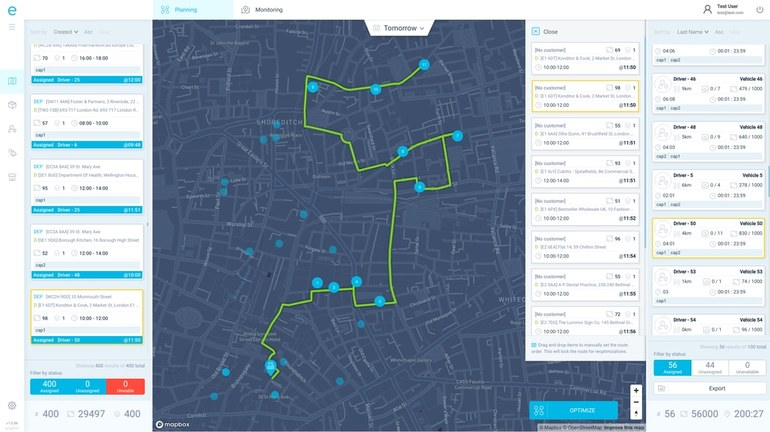
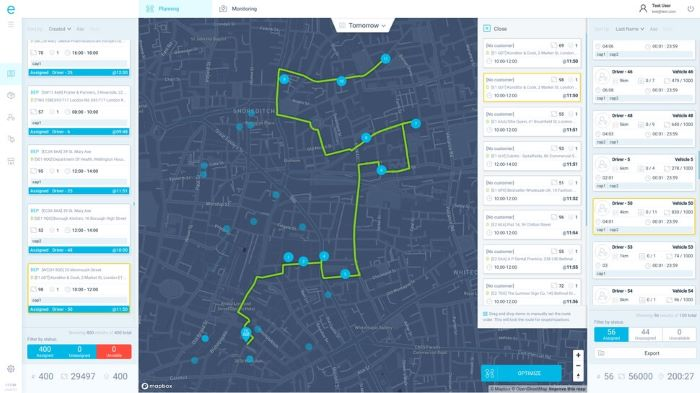
Update from Forestry.io Elogii Blog created static/uploads/route-optimization.jpg Elogii Blog updated content/how-to-give-your-customers-the-most-accurate-delivery-windows.md

Changed region(s): [[0.81, 0.8855, 0.84, 0.9771], [0.48, 0.0611, 0.54, 0.0916], [0.21, 0.9771, 0.24, 1.0]]

diff --git a/content/how-to-give-your-customers-the-most-accurate-delivery-windows.md b/content/how-to-give-your-customers-the-most-accurate-delivery-windows.md
@@ -3,7 +3,6 @@ canonical = "https://elogii.com/blog/delivery-window/"
 categories = ["Delivery Management"]
 date = 2023-01-12T11:00:00Z
 description = "Delivery windows tell your customers when to expect their orders. Setting an accurate delivery time window is an excellent way to build trust with customers. "
-draft = true
 image = "/blog/uploads/how-to-give-your-customers-the-most-accurate-delivery-windows.png"
 tags = ["Route Optimization Software", "Order Fulfillment", "Last Mile Delivery", "Driver Management", "  Dispatching", "Delivery Schedules", "Delivery Planning", "  Delivery Logistics", "Delivery Management Platform", "Delivery Management Software"]
 title = "How To Give Your Customers The Most Accurate Delivery Windows"
@@ -24,13 +23,9 @@ Here's a quick summary of everything we’ll cover:
 ## TL;DR
 
 * A **delivery window is a date and/or time set by the retailer or customer** **that marks when a package is expected to arrive**. Accurate delivery windows with a tracking number give customers an idea of when to expect their orders.
-
 * Delivery windows help retailers stay accountable and send out packages on time.
-
 * Accurate delivery windows have many benefits ranging from **improving the customer experience** and **building brand trust** to **helping fleet drivers plan their time more efficiently**.
-
 * Some of the best ways to create an accurate delivery window are to **use delivery management software**, **offer real-time delivery tracking**, **automate route planning**, and **maintain a line of communication with customers**.
-
 * To manage your delivery fleet and offer accurate delivery time windows to your customers, you need an accurate ETA management software like eLogii. **eLogii offers real-time tracking, route optimization, automated logistics, and many other features that all work together to ensure your customers get their orders on time.** To learn more about eLogii, [book a demo](https://elogii.com/book-demo).
 
 ## What is a delivery window?
@@ -95,31 +90,24 @@ Your Estimated Time of Arrival (ETA) is when your customers expect their deliver
 
 Many companies use ETA software like eLogii to help them securely manage their deliveries through route optimization, real-time tracking, and automated logistics.
 
-#### **eLogii review**
+#### eLogii review
 
-![](https://lh5.googleusercontent.com/CCHm5UCQJ6hB2kxR5C42oaYSC4CENi5qp22jCErntzBaWAmptZFE3JFeqJ2rhZ6Lmy9IWpW2VpkkJ6jPKUU2bDUXq4aOjtngX9oXjQ9fEaeBToS79YDq8_bTb687QjNZWZxToVT64K-jHnQtjH4ZHz8 =624x236)
+![eLogii](/blog/uploads/elogii.png "eLogii")
 
 eLogii is a cloud-based delivery management platform that helps businesses route and plan their deliveries. It aims to make delivery operations as efficient as possible to ensure 100% customer satisfaction.
 
 **Features:**
 
 * **Routing and planning** – This includes live traffic routing, automated route optimization, and multi-day routing.
-
 * **Operations management** – This includes user management, live task statuses, voice communication, fast customer service times, the ability to prioritize customer service inquiries, and the ability to track the duration of deliveries.
-
 * [**Electronic Proof of Deliveries** **(ePODs)**](https://elogii.com/capabilities/digital-pod) – This includes photos, signatures, barcodes, QR codes, and cash on delivery confirmations.
-
 * **A seamless customer experience** – This includes live ETAs and tracking, customer profiles, email and SMS notifications, and delivery notifications that are printable.
-
 * **A driver/agent app** – This includes iOS and Android apps that show the status of drivers, offer multi-language support, allow for vehicle selection, display a task list with a map view, offer push notifications, and connect with Google maps.
-
 * **Driver/vehicle configuration** – eLogii allows users to customize drivers’ skills, drivers’ schedules, avatars (for drivers and vehicles), vehicle profiles, vehicle capacities, and more.
-
 * **Data analytics** – This includes geo-coding, webhooks, exporting of optimized routes, and reports.
-
 * **API** – eLogii offers [an API](https://api-docs.elogii.com/) that connects with other tools in your supply chain.
 
-![](https://lh5.googleusercontent.com/AWTSWjeEAhsPQs711BfDGFHfh46ZycAgwp_ReaILEHDYl9SPCjPKYz9AWV5_EStwWc7leyA88Tw0yrJ8aQJTDrlIMUVH_-wzYzW4hUZ2SNtACHPx9jJYYOpMLfdAwEmLpaVJImpxaQP0VlDnEUOlZo8 =624x496)
+![eLogii-API](/blog/uploads/elogii-api.png "eLogii-API")
 
 **Pros:**
 
@@ -130,7 +118,7 @@ eLogii is a cloud-based delivery management platform that helps businesses route
 * eLogii has bulletproof security.
 * eLogii offers ePODs.
 
-![](https://lh5.googleusercontent.com/VARyjnMvPzUzIyPxfZMrAOOpEnV-uc_51O2mdPFmksSF66TyOhDoEwDiB7eLjwii0YOqqqenNxkDjHYIZp1IhRIqX_Uxzx-bLW4wUVYSQAmIOH3Puo0-N93CmyP9SnMsiPt_i-FlfkqQKRH99XxETVw =513x435)
+![eLogii-electronic-proof-of-delivery](/blog/uploads/elogii-electronic-proof-of-delivery.png "eLogii-electronic-proof-of-delivery")
 
 **Cons:**
 
@@ -145,7 +133,7 @@ eLogii's pricing is divided into three tiers that depend on your business's deli
 * **Premium** – Which includes 8,500 tasks per month.
 * **Professional** – Which includes 40,000 tasks per month.
 
-![](https://lh4.googleusercontent.com/kFX9HgPO_IgL0sJn5qiO6dINPEIwVM-z5App_MTXRRv4aDF7eHRCfzbt9X5p6sI2iIFzdbkZRB0SrlqmuIyKPDZKkOMiuSGU1vEDyF0nEUj9HwL69rpZxhQ6BjstOKE1JY2S_9wypSPSn5EvowxpiXc =624x247)
+![elogii-pricing](/blog/uploads/elogii-pricing.jpg "elogii-pricing")
 
 To get an idea of eLogii’s cost for your organization specifically, you can [request personalized pricing](https://elogii.com/pricing).
 
@@ -206,7 +194,7 @@ But imagine if you could get the benefit of this knowledge without needing to fi
 
 eLogii will provide the most efficient route by analyzing factors like traffic conditions, accidents, weather, roadworks, and more so that it can direct drivers around any problem areas.
 
-![](https://lh4.googleusercontent.com/vhyhrfQNaOZkvqDAqr2s23dcpMiLxRItX1PN7C7JL7VgUZlNjl9jZteAe5OAz0YhveQUWvlrldYNRjRAuhbj-RU9veBSfVblb3bMLrsV7KM4E2U6WoIV5e7HAzX2RbQuIlThM3uicl6-x5nkEXYymrU =624x351)
+![Route-optimization](/blog/uploads/route-optimization.jpg "Route-optimization")
 
 Having automated route planning tools allows you to set very accurate delivery windows for customers because you know exactly where your trucks will be down the minute.
 
